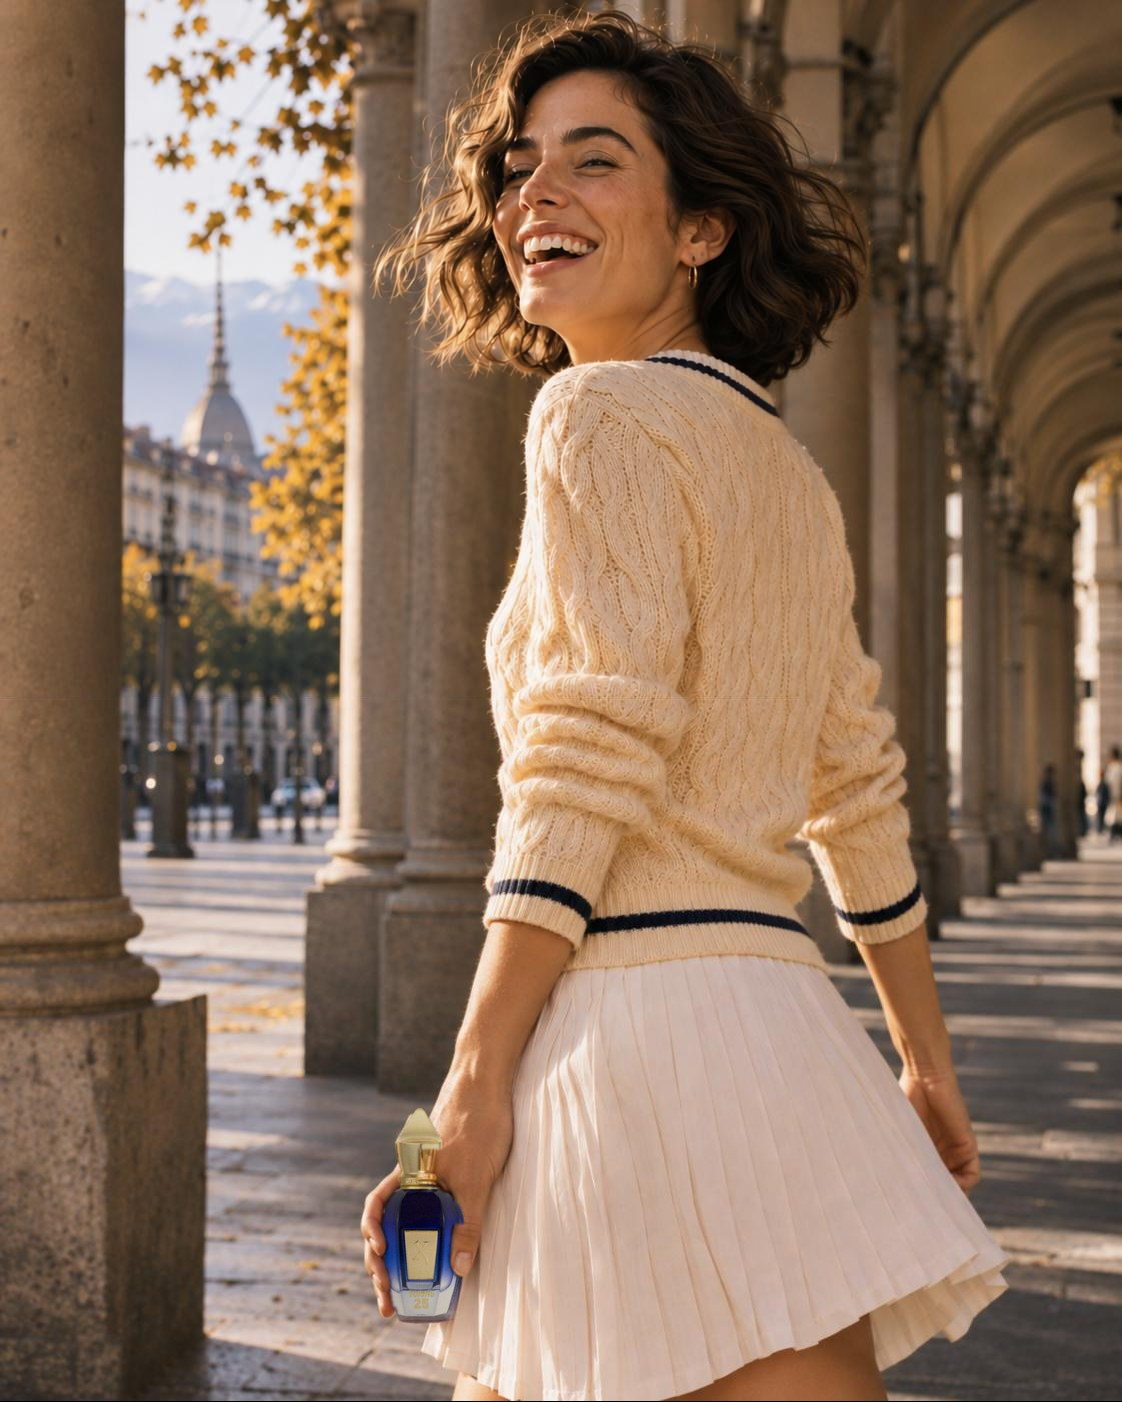
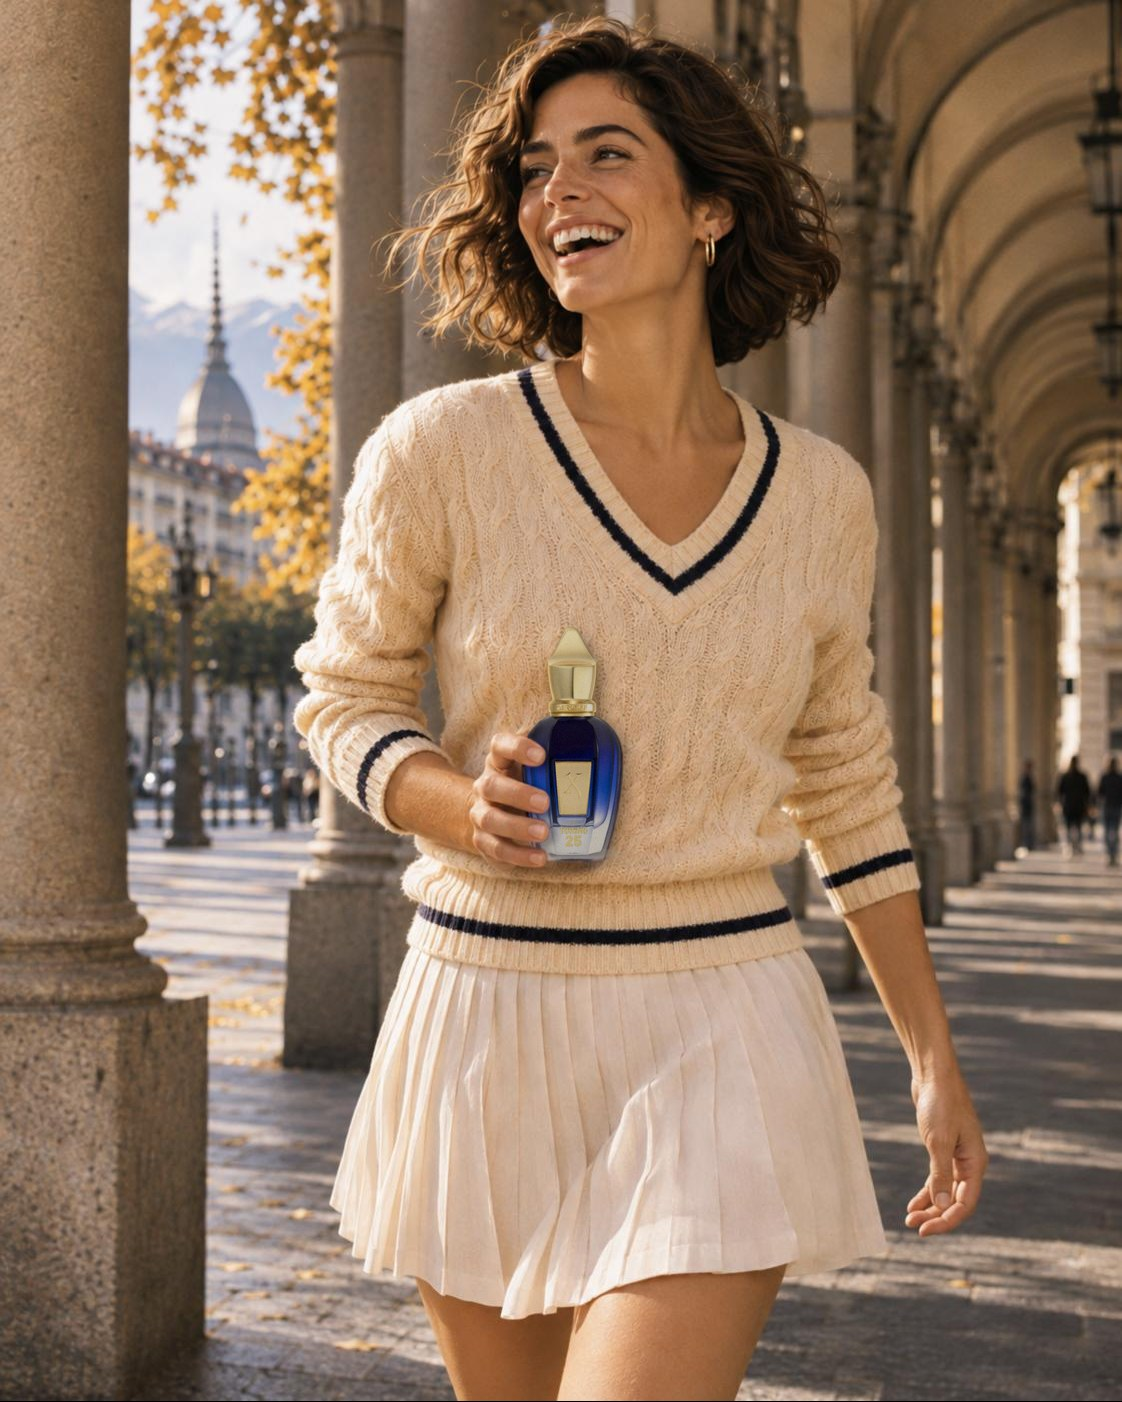
Xerjoff: foto 04 frontale con presa naturale

diff --git a/prova/xerjoff-0df520/index.html b/prova/xerjoff-0df520/index.html
@@ -98,7 +98,7 @@ footer a{text-decoration:none}
 </section>
 <section class="full"><img src="torino-02.jpg?v=1" alt="Corre sulla terra rossa con il flacone stretto al petto"></section>
 <section class="full"><img src="torino-03.jpg?v=1" alt="Al seggiolone dell'arbitro, la guancia appoggiata al flacone"></section>
-<section class="full"><img src="torino-04.jpg?v=2" alt="Sotto i portici di Torino si volta e sorride, il flacone in mano"></section>
+<section class="full"><img src="torino-04.jpg?v=3" alt="Sotto i portici di Torino cammina ridendo, il flacone in mano"></section>
 <section class="film"><div><span class="num">03 — Il film</span><h2>Un pomeriggio al circolo.</h2><p class="lead">Dieci secondi per le Stories: la risata sulla panchina, la pausa al seggiolone, uno sguardo sotto i portici. Poi il flacone, da solo.</p></div><video src="film.mp4?v=1" poster="film.jpg?v=1" controls playsinline preload="metadata"></video></section>
 <section class="site">
   <span class="num">04 — Il resto del mio lavoro</span>
